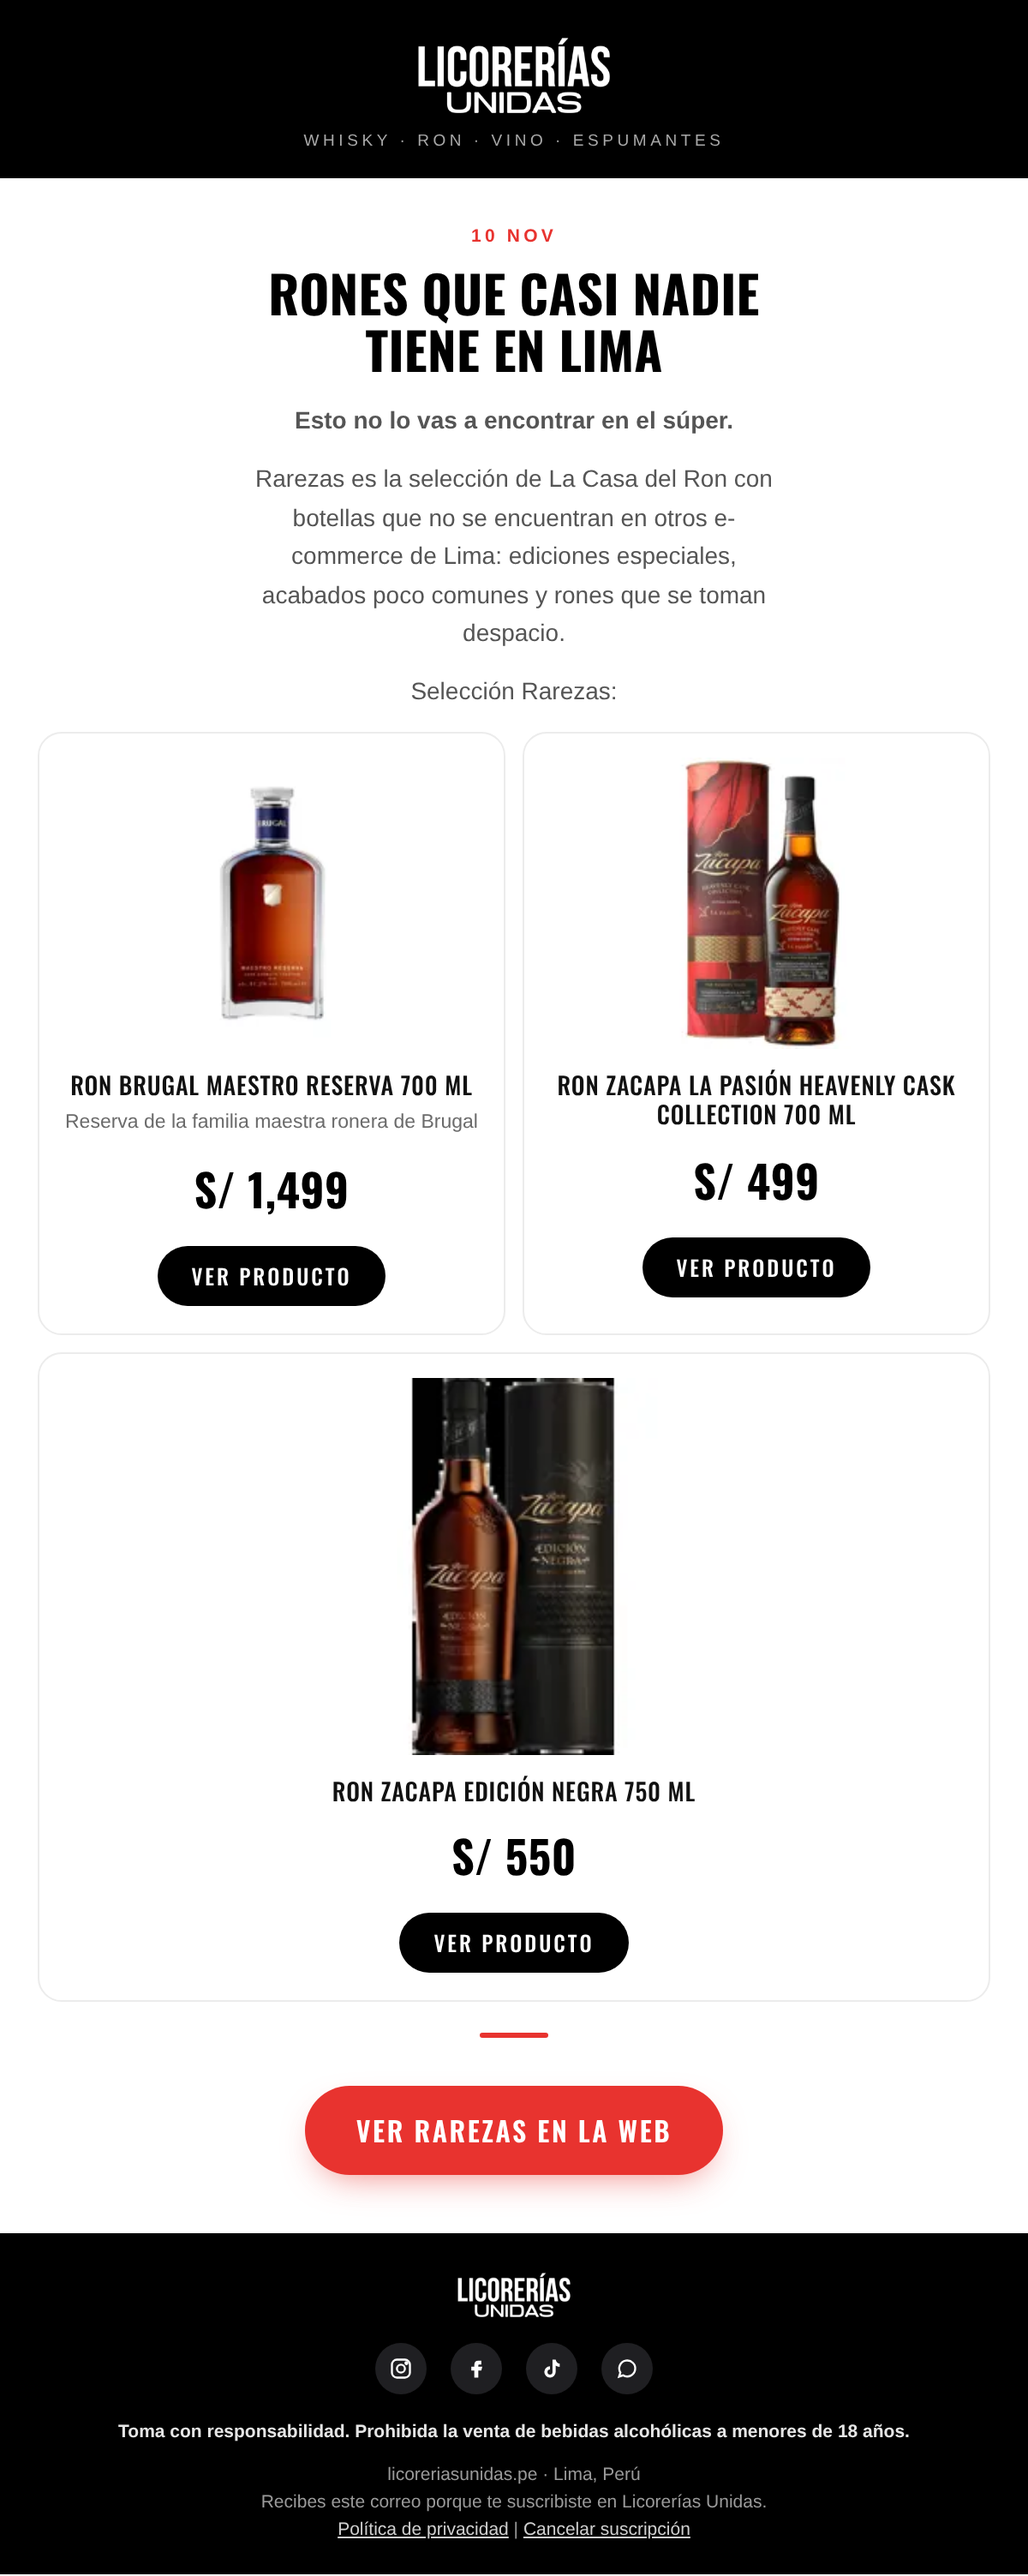
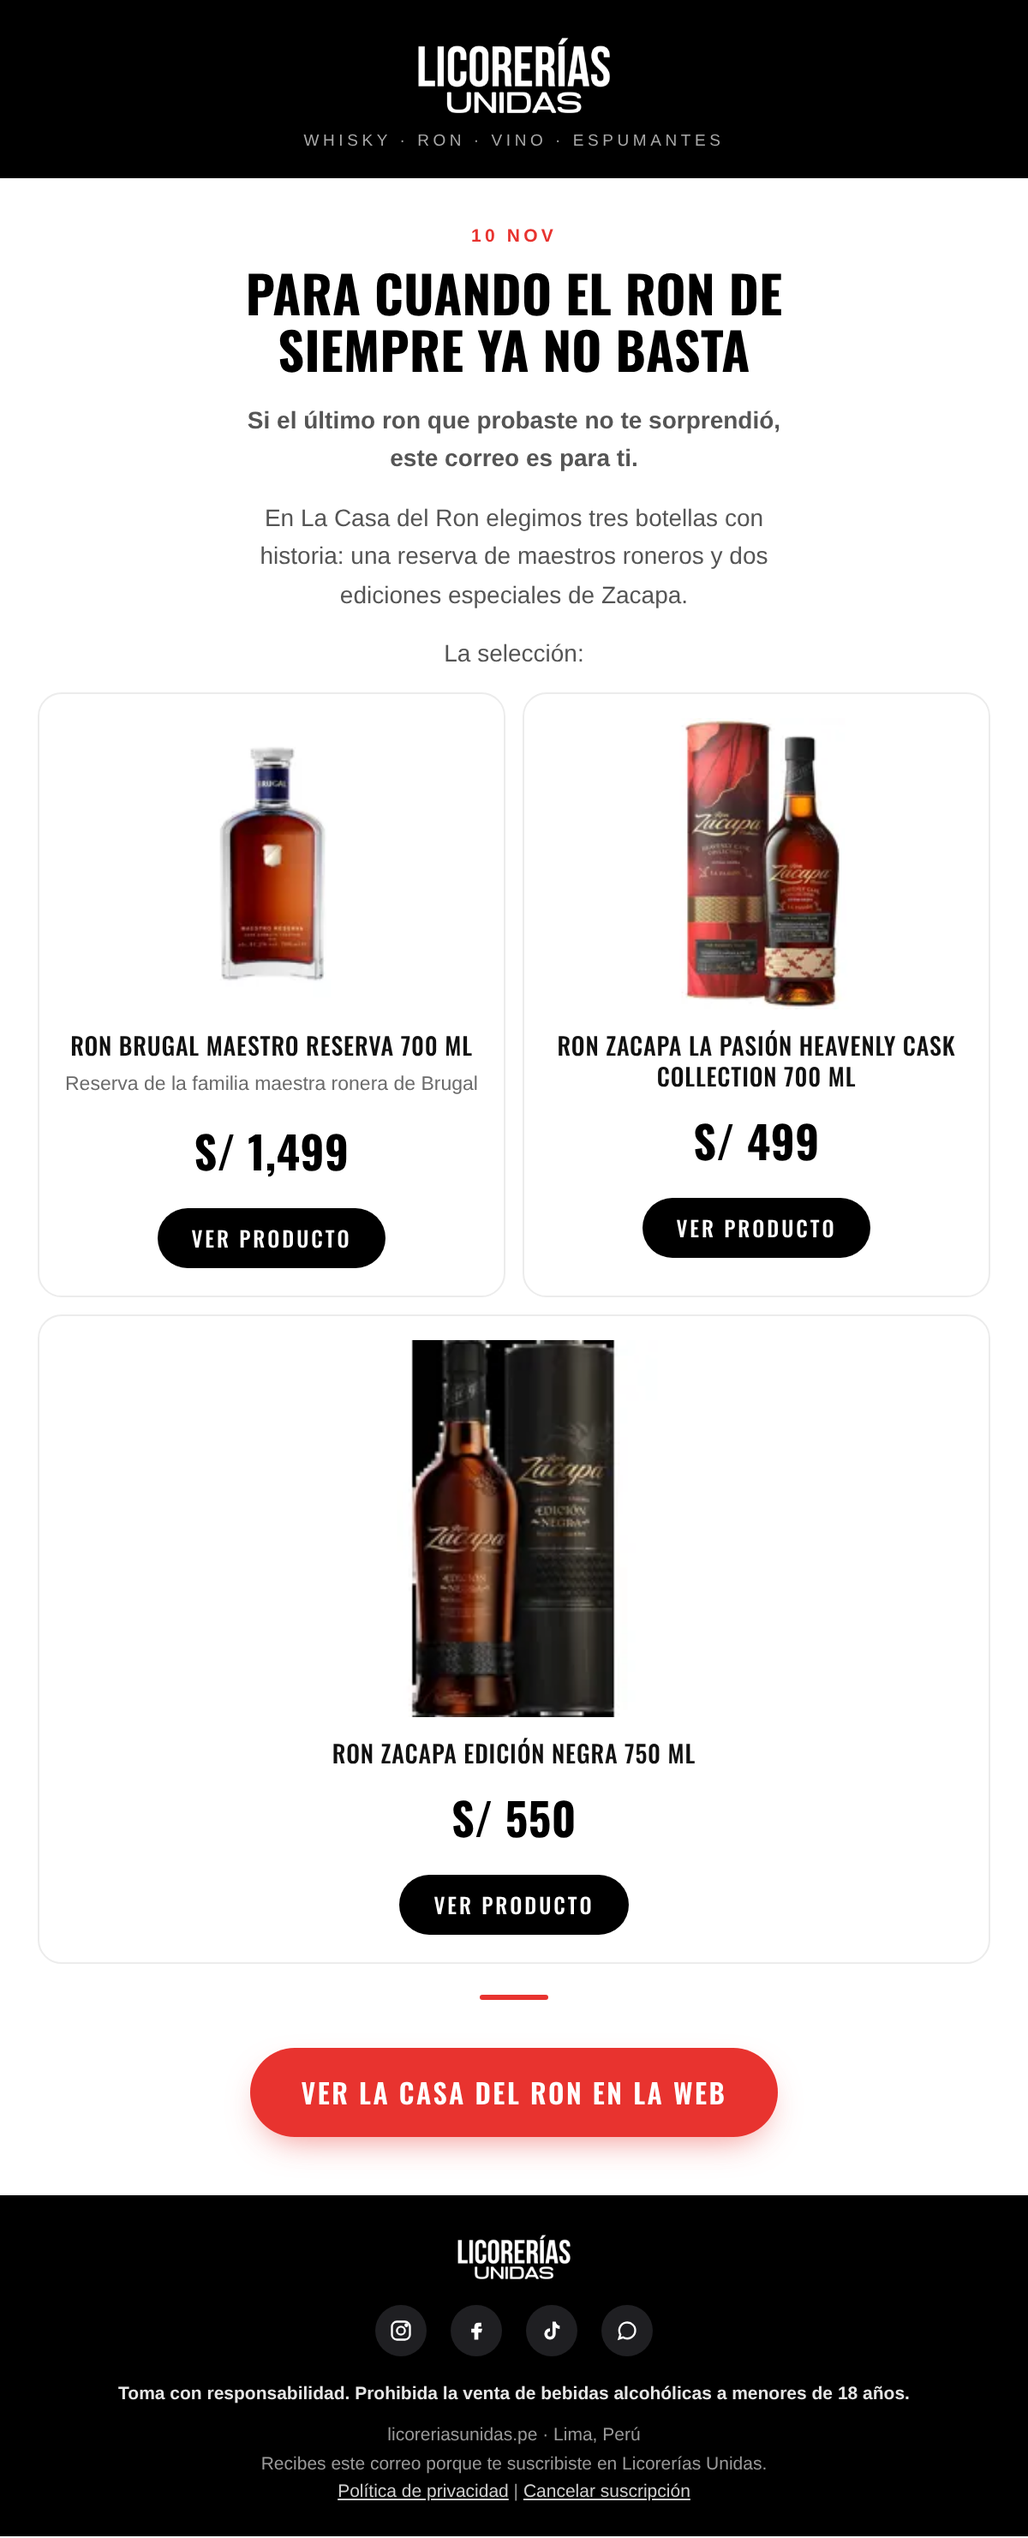
Guiones de stories corregidos; mailing 10/11 sin 'Rarezas'
Claude-Session: https://claude.ai/code/session_0148WGEnZfS2ZRp3UxJqiBn1

diff --git a/GUIONES_STORIES_NOV_LU.md b/GUIONES_STORIES_NOV_LU.md
@@ -1,0 +1,134 @@
+# Guiones de stories · Noviembre 2026 · Licorerías Unidas
+
+Versión corregida con tus comentarios.
+- **[NUEVO]:** guion reescrito.
+- **[AJUSTE]:** el guion de la otra IA se queda, pero le saqué datos inventados.
+- **[OK]:** sin cambios.
+
+**Técnicas de captación aplicadas en los nuevos:**
+1. Corte de patrón en los primeros 2 segundos.
+2. Pregunta o dato que deja algo abierto, y se cierra al final.
+3. Hablar a "tú".
+4. Detalles concretos y sensoriales.
+5. Contraste entre dos cosas.
+6. Microcompromiso (encuesta o pregunta) antes del link.
+
+Nada de urgencia inventada.
+
+---
+
+### Miércoles 04/11 · Historias CSI · último día [AJUSTE]
+Voz en off: Si estabas esperando una excusa para llevarte esa botella premium, el tiempo se acaba hoy. Hasta las 11:59 de la noche puedes pagar tu destilado favorito en cuotas sin intereses. Toca el enlace y asegura tu pedido antes de que el reloj marque las doce.
+> Saqué "sin recargos ocultos": no lo tenemos confirmado.
+
+### Jueves 05/11 · Gran Malo · presentación [AJUSTE]
+Voz en off: Cuando Luisito Comunica lanzó su propio tequila, muchos pensaron que era solo una moda. Pero su sabor terminó convenciendo a todos: tequila con tamarindo y un toque picante que te cambia el esquema. Después de años viéndolo en internet, Gran Malo por fin llegó a Licorerías Unidas. Consíguelo en el link de nuestro perfil.
+> La marca lo presenta como tequila, no como "licor de tamarindo". Saqué "antes de que se agote el primer lote" porque esa urgencia no es real.
+
+### Viernes 06/11 · Gran Malo · botella y precio [AJUSTE]
+Voz en off: Si ya tienes tu botella de Gran Malo, hay una regla para tomarlo: bien frío. En un shot helado, el dulce del tamarindo y el picante se equilibran sin quemar. 750 mililitros a S/ 100, listos para tu previa. Toca aquí abajo y pídelo desde la web.
+> Agregué el precio (S/ 100). Cambié "directo del congelador" por "bien frío" porque no tenemos confirmado que la marca lo recomiende así.
+
+### Sábado 07/11 · Pisco Quebranta vs. Acholado [OK]
+Se usa el guion que ya existía (está en el planificador).
+
+### Domingo 08/11 · Dato de vino · ¿Por qué giramos la copa? [NUEVO]
+- **Pantalla 1 (gancho):** ¿Giras la copa porque lo viste en una película… o sabes para qué sirve?
+- **Pantalla 2:** Cuando el vino gira, entra en contacto con el aire y suelta sus aromas: fruta, especias, madera.
+- **Pantalla 3:** Haz la prueba: huele el vino quieto y luego después de girarlo. Es otro vino.
+- **Pantalla 4 (microcompromiso):** Encuesta "¿Lo hacías sin saber por qué?" Sí / Claro que sabía.
+- **Pantalla 5 (cierre):** Practica con uno de Wine Bank: Pascual Toso Alta Malbec, S/ 169. Link a la web.
+
+Voz en off: ¿Giras la copa porque lo viste en una película o sabes para qué sirve? Al girarlo, el vino toma aire y suelta sus aromas. Haz la prueba: huélelo quieto y después de girarlo. Es otro vino. Practica con uno de Wine Bank: el link está aquí abajo.
+
+### Lunes 09/11 · Neyen · el vino de Apalta [NUEVO]
+- **Pantalla 1 (gancho):** Este vino viene de parras que tienen más de 100 años.
+- **Pantalla 2:** Neyen nace en Apalta, en el valle de Colchagua, Chile: uno de los rincones más reconocidos del vino chileno.
+- **Pantalla 3:** Su nombre viene del mapudungun y quiere decir "espíritu". Por eso su vino insignia se llama Espíritu de Apalta.
+- **Pantalla 4:** Carménère y Cabernet Sauvignon de viñas centenarias en una sola botella.
+- **Pantalla 5 (cierre):** Ya está en LU. Mañana te mostramos la colección completa (deja abierta la story del 10/11).
+
+Voz en off: Este vino viene de parras de más de cien años. Se llama Neyen, que en mapudungun significa "espíritu", y nace en Apalta, en el corazón del valle de Colchagua. Carménère y Cabernet Sauvignon de viñas centenarias en una sola botella. Ya está en Licorerías Unidas, y mañana te mostramos la colección completa.
+
+### Martes 10/11 · Neyen · botellas y precios [OK]
+Voz en off: Conseguir una botella de Viña Neyen ya es difícil, pero tener la colección completa en un solo lugar es un verdadero privilegio. Acabamos de sumar el Blend Espíritu de Apalta y su línea Ancestral a nuestra cava. Si disfrutas de vinos con historia, tienes que probarlos. Encuentra la colección completa en el link de nuestro perfil.
+> Saqué "mítica" y "producción limitada" porque no lo tenemos verificado. Precios de Neyen: `[PRECIO]`.
+
+### Miércoles 11/11 · La Casa del Ron · botellas difíciles de encontrar [NUEVO]
+- **Pantalla 1 (gancho):** ¿Cuál fue el último ron que te sorprendió de verdad?
+- **Pantalla 2:** Brugal Maestro Reserva: la reserva de los maestros roneros de Brugal. S/ 1,499.
+- **Pantalla 3:** Zacapa La Pasión, de la Heavenly Cask Collection. S/ 499.
+- **Pantalla 4:** Zacapa Edición Negra. S/ 550.
+- **Pantalla 5 (cierre):** Encuesta "¿Cuál abrirías primero?" + link a La Casa del Ron.
+
+Voz en off: ¿Cuál fue el último ron que te sorprendió de verdad? Si la respuesta tarda, mira esto. Brugal Maestro Reserva, la reserva de sus maestros roneros. Zacapa La Pasión, de la Heavenly Cask Collection. Y Zacapa Edición Negra. Tres rones para cuando el de siempre ya no basta. Están en La Casa del Ron, en el link de aquí abajo.
+> Sin "colección Rarezas" (no existe como colección), sin "casi nadie más tiene en Lima" y sin "vuelan apenas los publicamos".
+
+### Sábado 14/11 · Espumantes · recorrido [NUEVO]
+- **Pantalla 1 (gancho):** No todo lo que tiene burbujas es champagne.
+- **Pantalla 2:** Prosecco: de Italia, fresco y frutal. Riccadonna Prosecco, S/ 55.
+- **Pantalla 3:** Cava: de España, hecho con el mismo método que el champagne. Juvé & Camps Gran Juvé, S/ 270.
+- **Pantalla 4:** Champagne: solo si viene de Champagne, Francia. Veuve Clicquot, S/ 600.
+- **Pantalla 5 (cierre):** Encuesta "¿Tú qué abres este finde?" Prosecco / Cava / Champagne. Link a espumantes.
+
+Voz en off: No todo lo que tiene burbujas es champagne. El prosecco viene de Italia y es fresco y frutal. El cava es español y se hace con el mismo método que el champagne. Y champagne solo es el que viene de Champagne, en Francia. Desde S/ 55 hasta S/ 600: elige el tuyo en el link de aquí abajo.
+
+### Domingo 15/11 · La Casa del Ron · marcas [NUEVO]
+- **Pantalla 1 (gancho, número grande en pantalla):** Más de 35 marcas de ron. Un solo lugar.
+- **Pantalla 2:** De Guatemala, Nicaragua, Venezuela, República Dominicana, Cuba, Barbados, Filipinas y más.
+- **Pantalla 3 (montaje rápido de logos o botellas):** Zacapa, Flor de Caña, Diplomático, Barceló, Dictador, Brugal, Havana Club, Mount Gay, Don Papa…
+- **Pantalla 4:** Casi 150 rones distintos: del que va con la cola al que se toma solo.
+- **Pantalla 5 (cierre):** Pregunta "¿Qué ron no encuentras?" + link a La Casa del Ron.
+
+Voz en off: Más de treinta y cinco marcas de ron. Un solo lugar. De Guatemala, Nicaragua, Venezuela, República Dominicana, Cuba, Barbados y más. Casi ciento cincuenta rones distintos, del que va con la cola al que se toma solo. Eso es La Casa del Ron. Y si hay uno que no encuentras, escríbenos aquí abajo.
+> Números del inventario: 38 marcas de ron con stock y 149 productos.
+
+### Martes 17/11 · Wine Bank · vinos de altura [OK]
+Voz en off: Dicen que los mejores vinos de Argentina nacen al límite, y los viñedos de altura lo demuestran. A más de mil metros, las uvas soportan un clima extremo que las obliga a concentrar aromas, color y sabor. Etiquetas como Gran Enemigo nacen así. Descubre nuestra selección de vinos de altura en la web.
+
+### Miércoles 18/11 · DESTINO MENDOZA · cómo participar [NUEVO]
+- **Pantalla 1 (gancho, voz rápida y cortes):** Febrero de 2027. Tú. Mendoza.
+- **Pantalla 2:** Cordillera de los Andes de fondo, viñedos hasta donde llega la vista (imágenes de Mendoza).
+- **Pantalla 3:** Esto no es un sueño: es el premio de DESTINO MENDOZA. Un viaje para dos personas.
+- **Pantalla 4:** Participas del 15 de noviembre al 31 de diciembre.
+- **Pantalla 5 (microcompromiso):** Pregunta "¿Con quién irías?" (que la gente etiquete o responda).
+- **Pantalla 6 (cierre):** Cómo participar, en las bases. Link.
+
+Voz en off: Febrero de 2027. Tú. Mendoza. La cordillera de fondo y viñedos hasta donde llega la vista. No es un sueño: es el premio de Destino Mendoza, un viaje para dos personas. Tienes del 15 de noviembre al 31 de diciembre para participar. Ahora dime: ¿con quién irías? Cómo participar, en el link.
+> Saqué "todo pagado" y "cada pedido te suma un ticket automático": no están en las bases todavía. Cuando legal valide la mecánica (16/11), se agrega en una pantalla.
+
+### Jueves 19/11 · Botella del día · Clase Azul Reposado [NUEVO]
+- **Pantalla 1 (gancho, toma de la botella girando):** Esta botella está pintada a mano. Y no es lo único especial.
+- **Pantalla 2:** Clase Azul Reposado: tequila 100% de agave, reposado en barrica.
+- **Pantalla 3:** Su decantador de cerámica es hecho y pintado a mano en México. Cada uno es único.
+- **Pantalla 4:** S/ 1,240.
+- **Pantalla 5 (cierre):** Encuesta "¿Lo tomas o lo exhibes?" + link.
+
+Voz en off: Esta botella está pintada a mano, y no es lo único especial. Clase Azul Reposado: tequila cien por ciento agave, reposado en barrica, en un decantador de cerámica hecho y pintado a mano en México. Cada botella es única. ¿Tú lo tomas o lo exhibes? Está en el link de aquí abajo.
+> Reemplaza a Hendrick's. Hay 5 unidades.
+
+### Sábado 21/11 · Pre Black Friday · aviso [AJUSTE]
+Voz en off: Guarda esta fecha: viernes 27 de noviembre. Lo que va a pasar ese día en Licorerías Unidas todavía no te lo podemos contar. Entra a la web y ve armando tu lista de deseos.
+> Saqué "llevamos meses negociando" y "el ajuste más importante del año": no lo tenemos confirmado.
+
+### Domingo 22/11 · DESTINO MENDOZA · recordatorio [AJUSTE]
+Voz en off: Ese viaje para dos personas a Mendoza sigue buscando dueño. Tienes hasta el 31 de diciembre para participar. Revisa cómo hacerlo en el enlace.
+> Saqué "cada compra en la web o en tienda te acerca más": la mecánica no está definida.
+
+### Lunes 23/11 · Pre Black Friday · cuenta regresiva [OK]
+Va sin cambios.
+
+### Martes 24/11 · Pre Black Friday · qué viene [AJUSTE]
+Voz en off: ¿Whisky, ron o vino? Este viernes 27 algo cambia en Licorerías Unidas. Revisa el catálogo desde el enlace y ten tu lista lista.
+> Saqué "beneficios que solo durarán 24 horas" y "las unidades desaparecerán rápido" hasta que estén las condiciones de Black Friday.
+
+### Miércoles 25/11 a viernes 27/11 · Black Friday
+Van aparte, con las definiciones comerciales.
+> En la del 26/11, las marcas (Macallan, Johnnie Walker, Catena, Zacapa) solo se nombran si entran en la oferta.
+
+### Sábado 28/11 · DESTINO MENDOZA · después de Black Friday [AJUSTE]
+Voz en off: Black Friday pasó, pero Destino Mendoza sigue. El viaje para dos personas a Mendoza se sortea entre quienes participen hasta el 31 de diciembre. Revisa cómo participar en el enlace.
+> Saqué "tus compras ya están participando" y "suma tickets": depende de la mecánica.
+
+### Lunes 30/11 · Botella del día · ron
+Ron Zacapa XO 750 ml · S/ 445. Pendiente de guion.

diff --git a/COPYS_MAILING_NOV_LU.md b/COPYS_MAILING_NOV_LU.md
@@ -53,24 +53,24 @@ Haz tu pedido hoy desde la web y recíbelo directamente en tu puerta.
 
 ---
 
-## 3. Martes 10/11 · La Casa del Ron · Rarezas
+## 3. Martes 10/11 · La Casa del Ron · tres rones especiales
 
-- **Asunto A:** Rones que casi nadie tiene en Lima
-- **Asunto B:** Si no lo encuentras en ningún lado, está aquí
-- **Preheader:** Botellas que no vas a encontrar en otra tienda de Lima.
+- **Asunto A:** Para cuando el ron de siempre ya no basta
+- **Asunto B:** ¿Cuál fue el último ron que te sorprendió?
+- **Preheader:** Tres rones de La Casa del Ron que se toman despacio.
 
 **Cuerpo:**
 
-Esto no lo vas a encontrar en el súper.
+Si el último ron que probaste no te sorprendió, este correo es para ti.
 
-Rarezas es la selección de La Casa del Ron con botellas que no se encuentran en otros e-commerce de Lima: ediciones especiales, acabados poco comunes y rones que se toman despacio.
+En La Casa del Ron elegimos tres botellas con historia: una reserva de maestros roneros y dos ediciones especiales de Zacapa.
 
-**Selección Rarezas:**
+**La selección:**
 - **Ron Brugal Maestro Reserva 700 ml:** S/ 1,499. Reserva de la familia maestra ronera de Brugal.
 - **Ron Zacapa La Pasión Heavenly Cask Collection 700 ml:** S/ 499
 - **Ron Zacapa Edición Negra 750 ml:** S/ 550
 
-- **CTA:** Ver Rarezas en la web
+- **CTA:** Ver La Casa del Ron en la web
 
 ---
 
